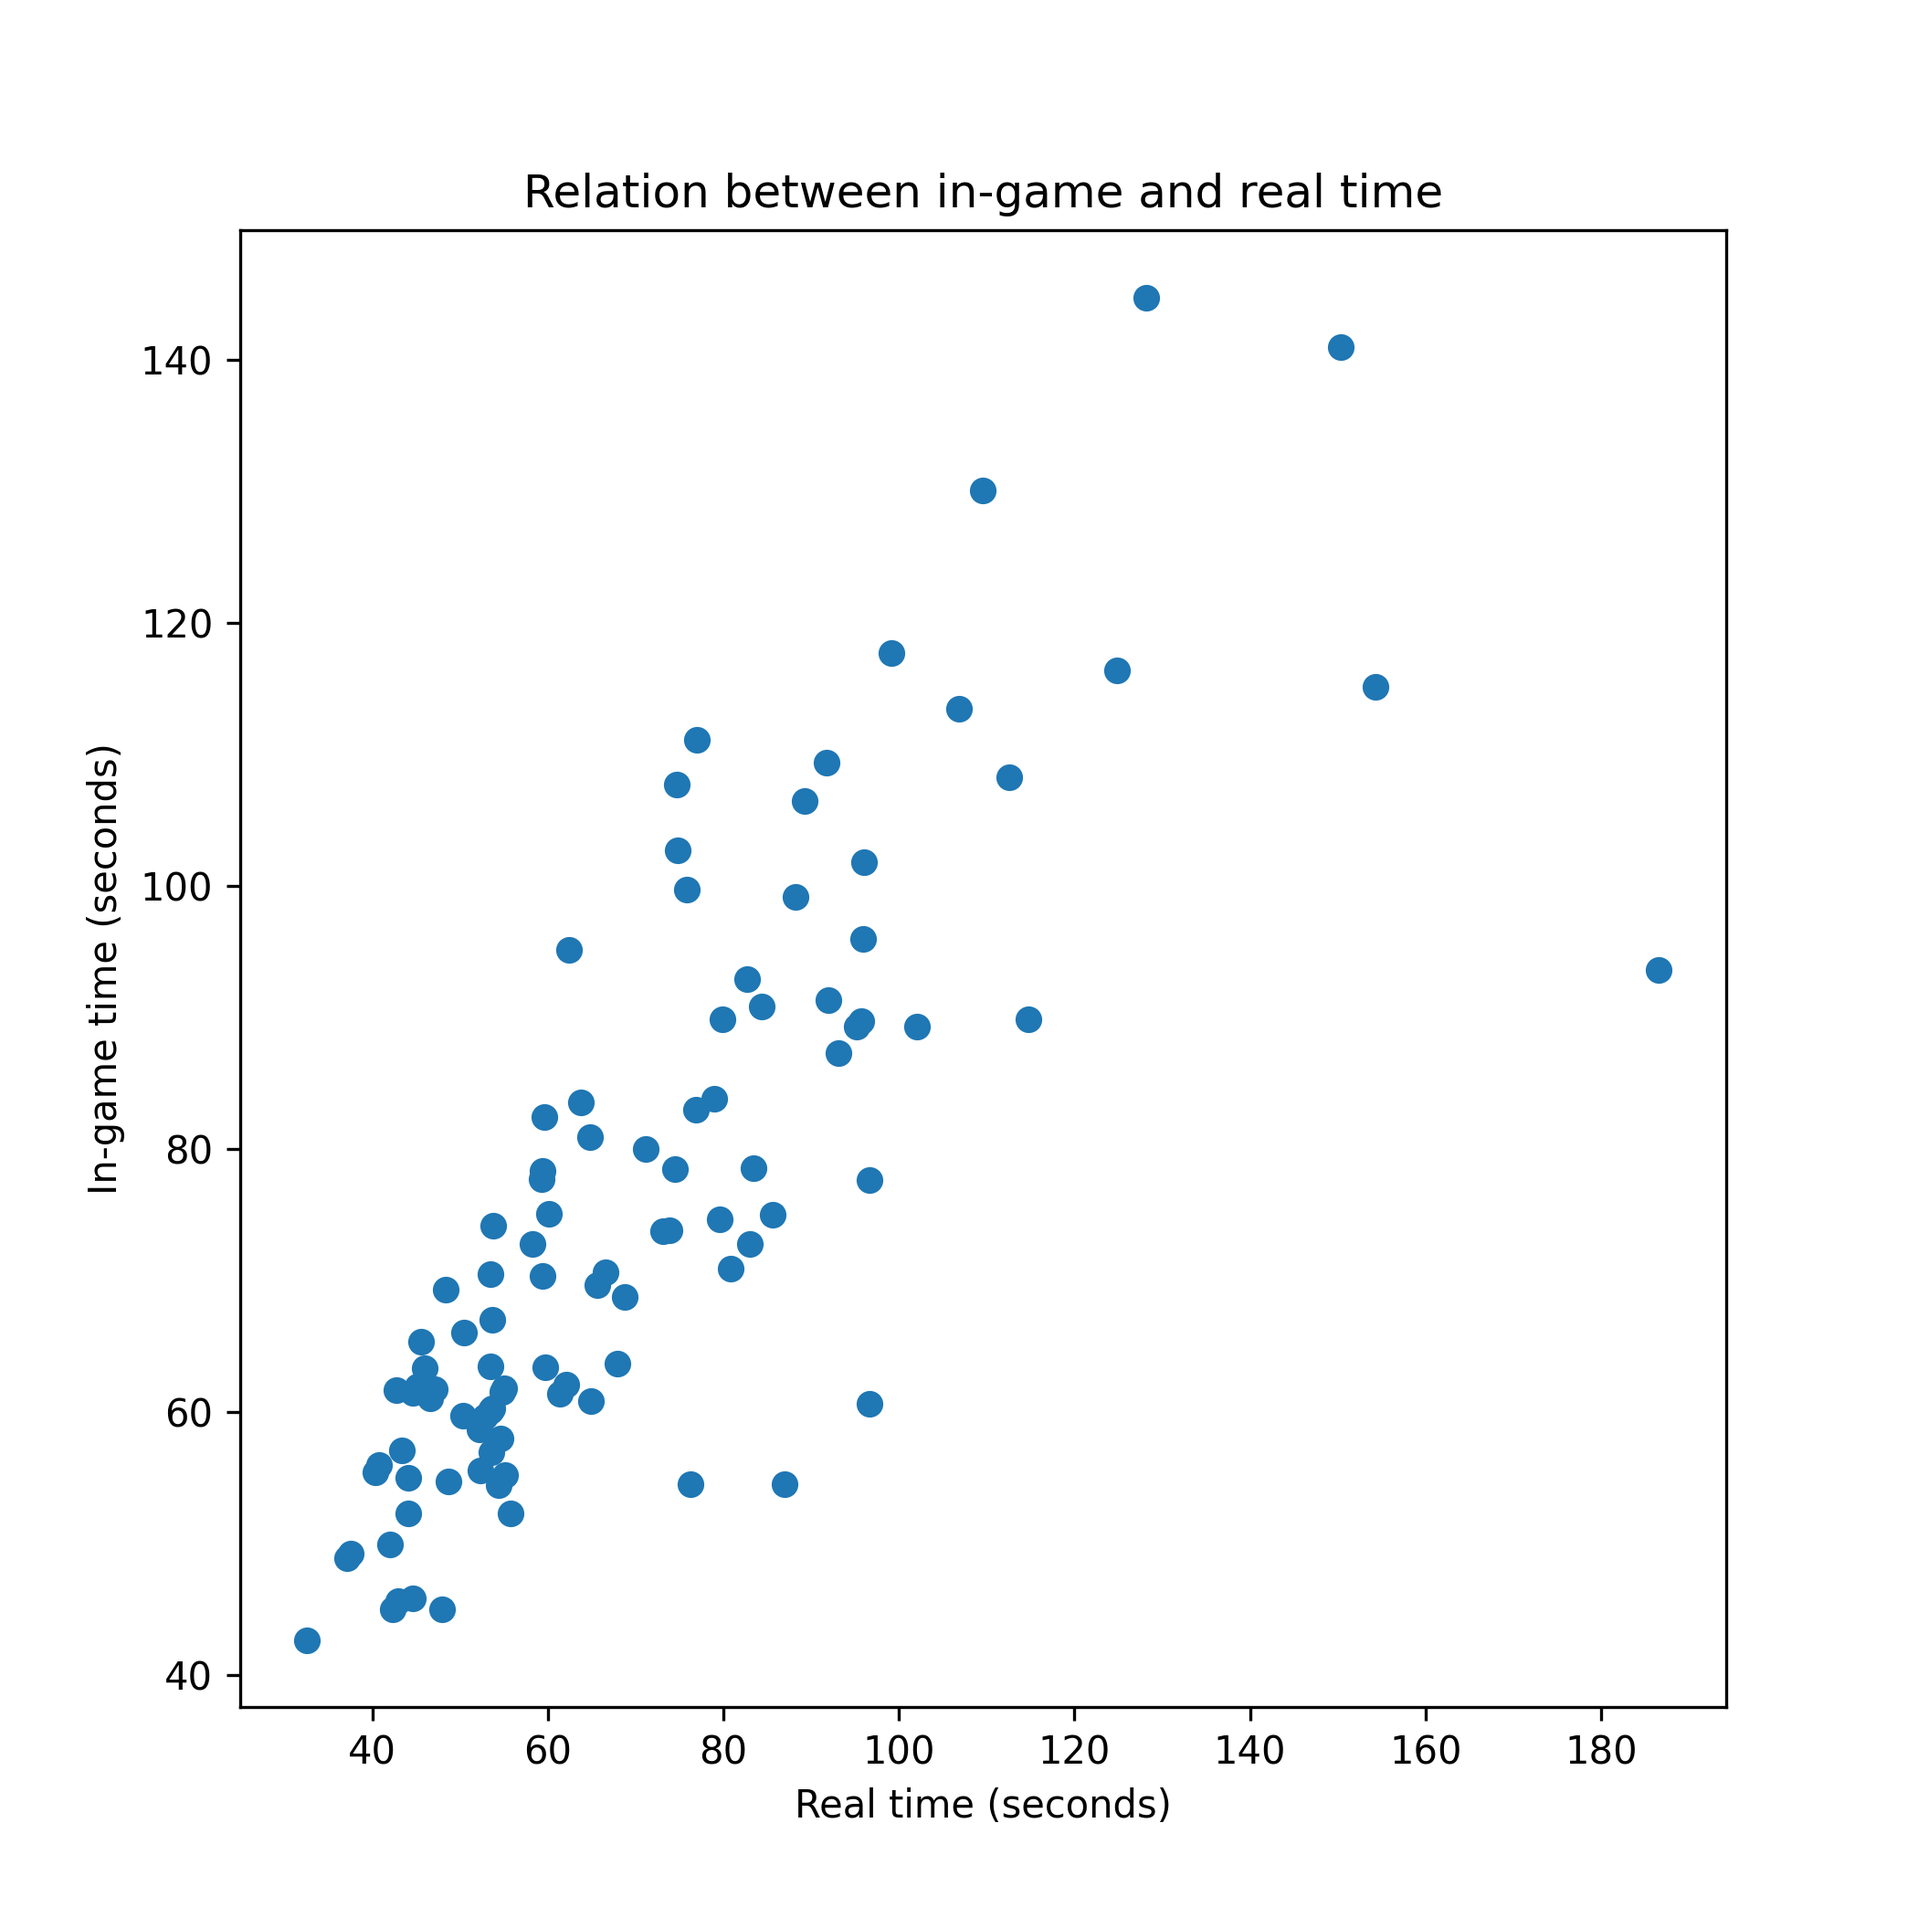
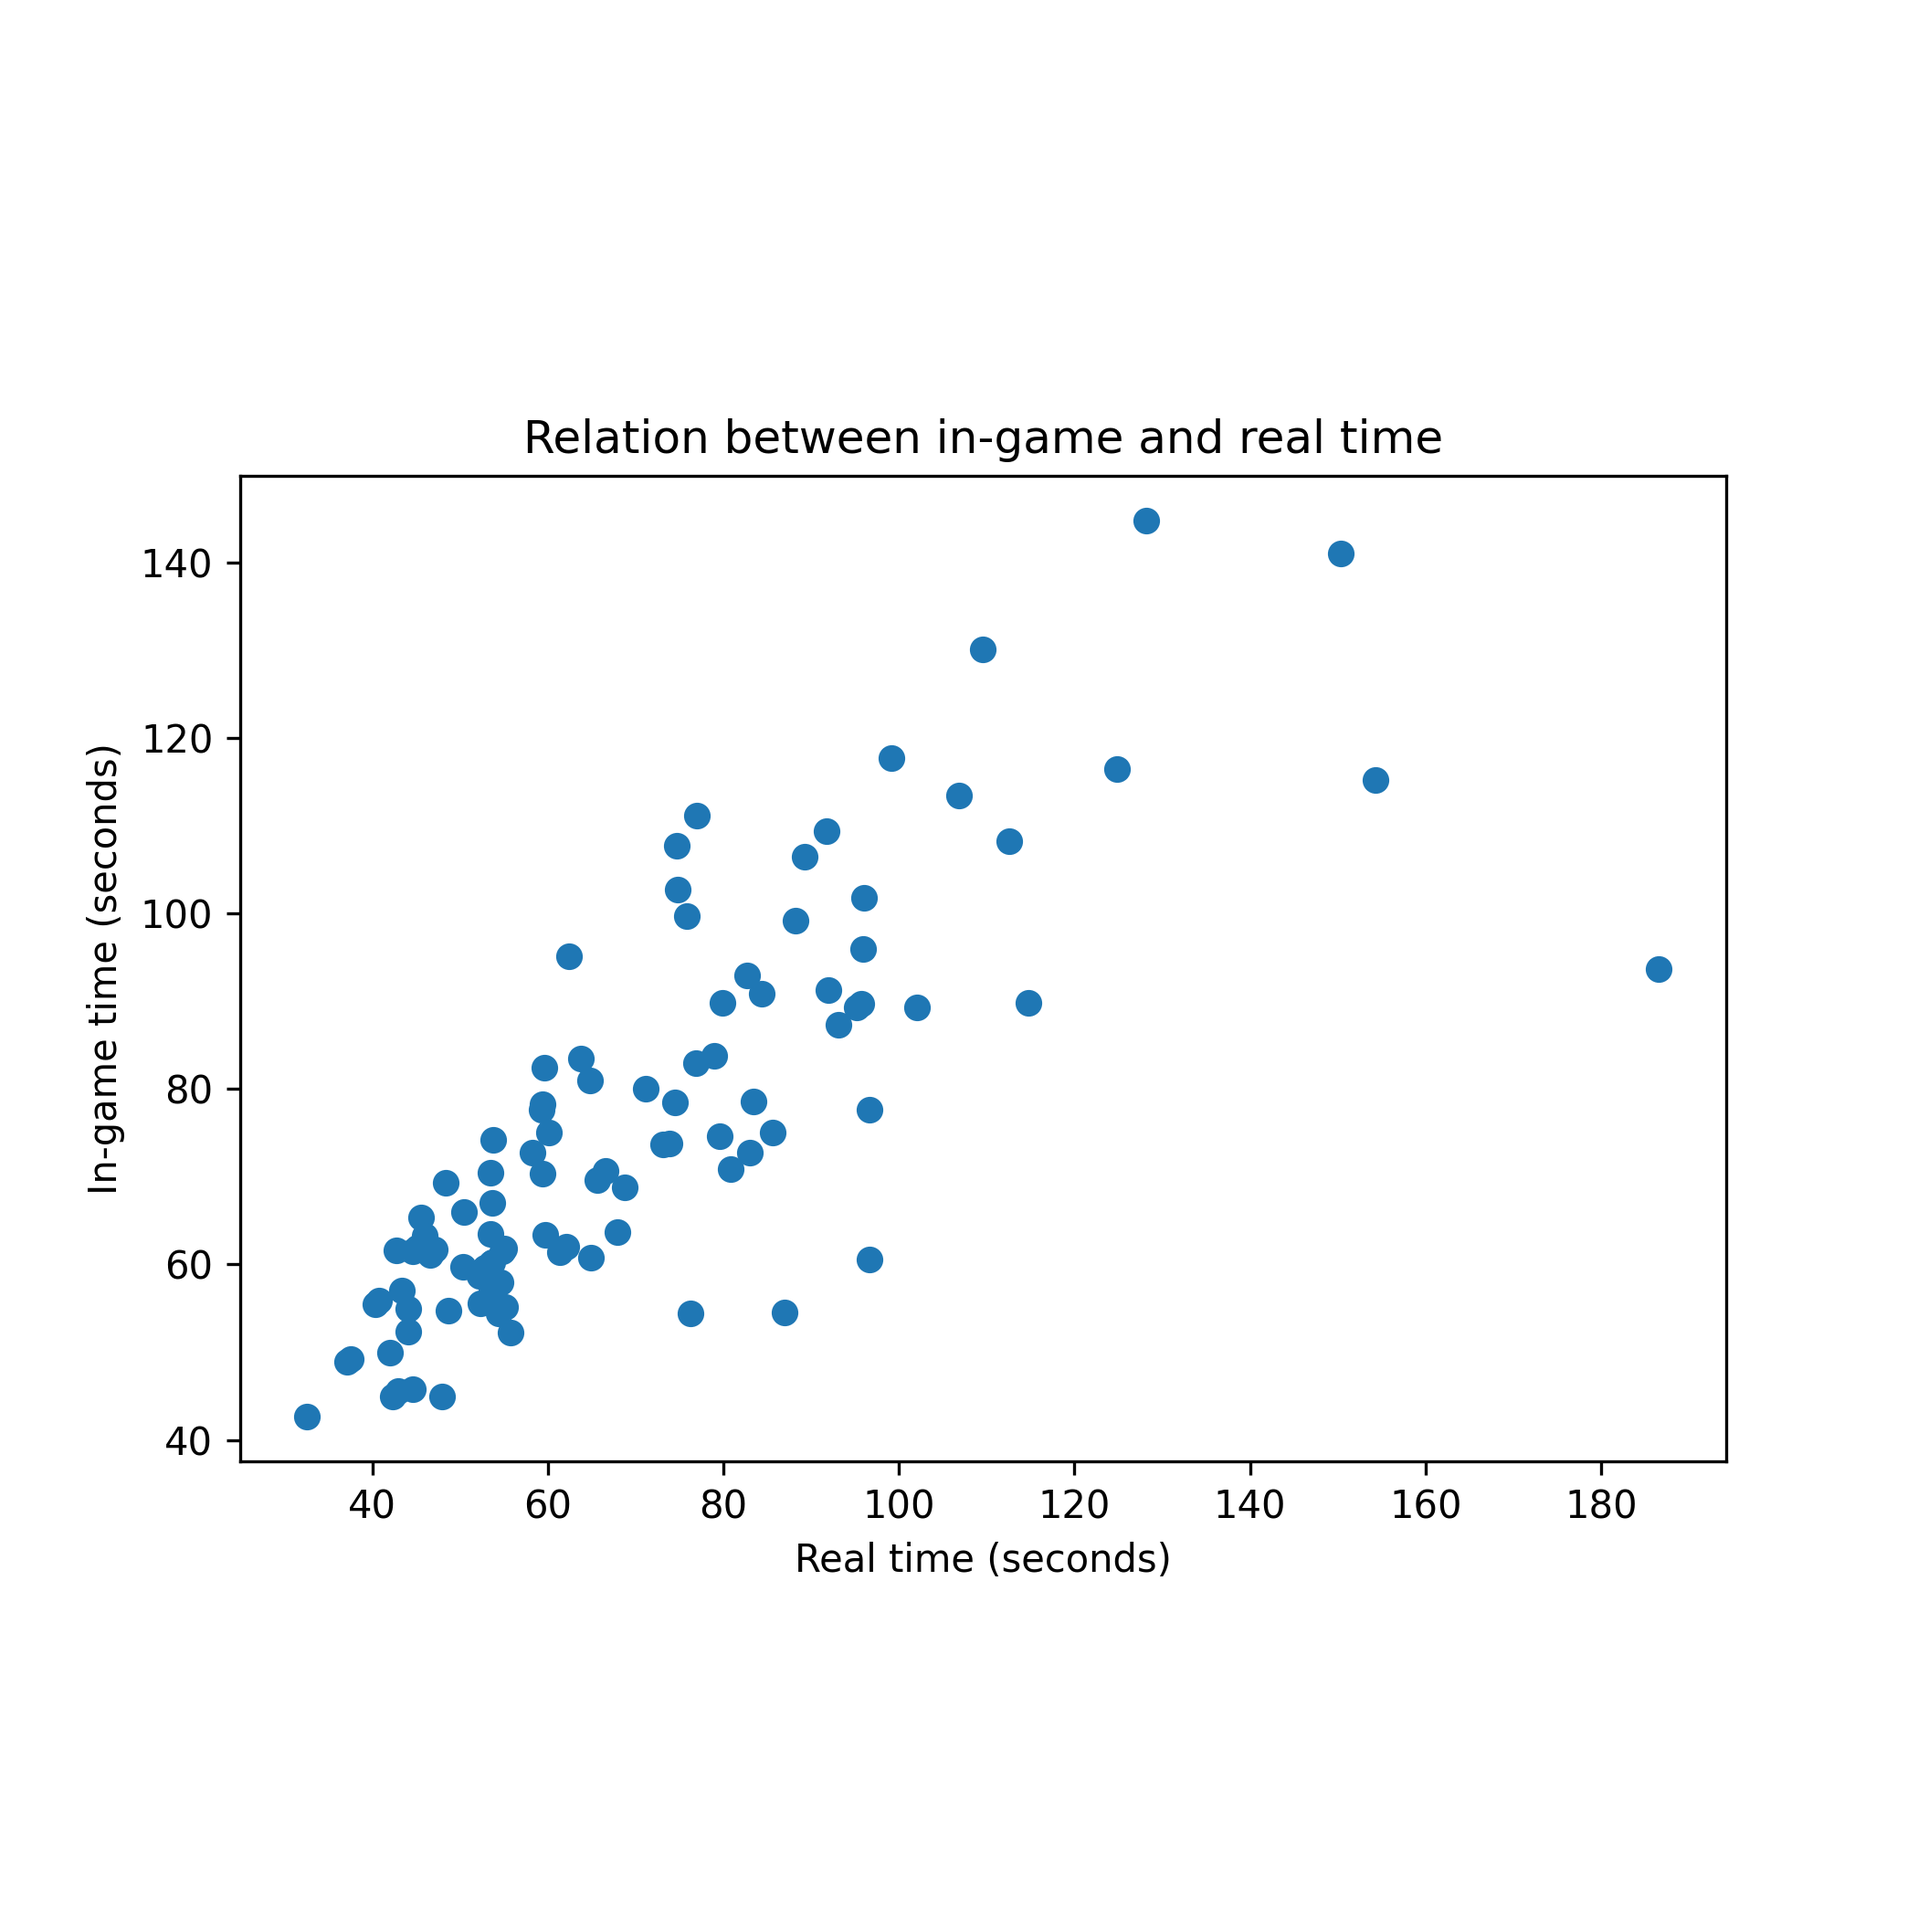
un-placeholdered VISUALIZATION.md

diff --git a/graphGenerator.py b/graphGenerator.py
@@ -53,7 +53,8 @@ class GraphGenerator:
         filename = self.__file_prefix / "fig_times.png"
 
         fig, ax = plt.subplots(figsize=self.__figsize, dpi=300)
-        plt.scatter(self.__data["realtime"]/1000, self.__data["gametime"]/1000)
+        ax.set_aspect("equal")
+        plt.scatter(self.__data["realtime"]/1000, self.__data["gametime"]/1000,)
         plt.title("Relation between in-game and real time")
         plt.xlabel("Real time (seconds)")
         plt.ylabel("In-game time (seconds)")

diff --git a/screenshots/visualization/VISUALIZATION.md b/screenshots/visualization/VISUALIZATION.md
@@ -1,1 +1,31 @@
-placeholder
+# Data visualization
+
+### Statistics page
+![Statistics page](statistics_page.png)
+This is the statistics page. It can be accessed by pressing the escape key, and clicking on the statistics button. Use the keys Q/E to switch graphs and press escape to stop viewing the statistics.  
+  
+There are 3 graphs and 1 table:
+- Proportion of planet upgrades (Pie Chart)
+- Relation between in-game and real time (Scatter plot)
+- Distribution of drones spawned and destroyed (Stacked bar chart)
+- Table of game overall (One table split into 3 for readability)
+
+### Proportion of planet upgrades
+![Proportion of planet upgrades](fig_upgrades.png)
+This is a pie chart of upgrades the user has when the game ends. Gray means planets are unupgraded, Green means the planets are upgraded to factories, and Blue means the planets are upgraded to forts. The objective is to summarize the player's behavior on planet upgrades.  
+  
+The chart shows that the user mainly focuses on capturing planets rather than making upgrades, since 50.8% of planets are unupgraded. Factories are also used more than forts (32.1% to 17.1%), despite the higher upgrade cost.
+
+### Relation between in-game and real time
+![Relation between in-game and real time](fig_times.png)
+This is a scatter plot between recorded in-game and real times, in seconds. As a reminder, each point is a separate game, in-game time is affected by fast-forwarding and pausing while real times are not. The objective is to analyze the player's playstyle (whether they play fast or not).  
+  
+The chart clearly shows that in-game time and real-time are correlated, and that Real time is usually faster than in-game time (with some outliers). Overall, this means the player usually plays at a faster speed than the default, and it can also mean they pause the game less.
+
+### Distribution of drones spawned and destroyed
+![Distribution of drones spawned and destroyed](fig_drones.png)
+This is a stacked bar chart. The Y axis is a percentage that goes from 0% to 100% and the X axis are bins of the total amount of drones created, ranging from 350 to 2600. The objective is to find out whether there is a change in the ratio of drones at larger scales.
+  
+The chart shows that the ratio of drones created versus destroyed does not meaningfully change the larger the scale of the game is. It is interesting, however, that it looks like the variance gets higher as the scale gets larger.  
+
+<small>*Note for the graph: The text is a little small due to having to fit ranges in the X axis. I tried using matplotlib's histogram to put the labels between the bars but the function is not flexible enough to implement these types of graphs.*</small>
